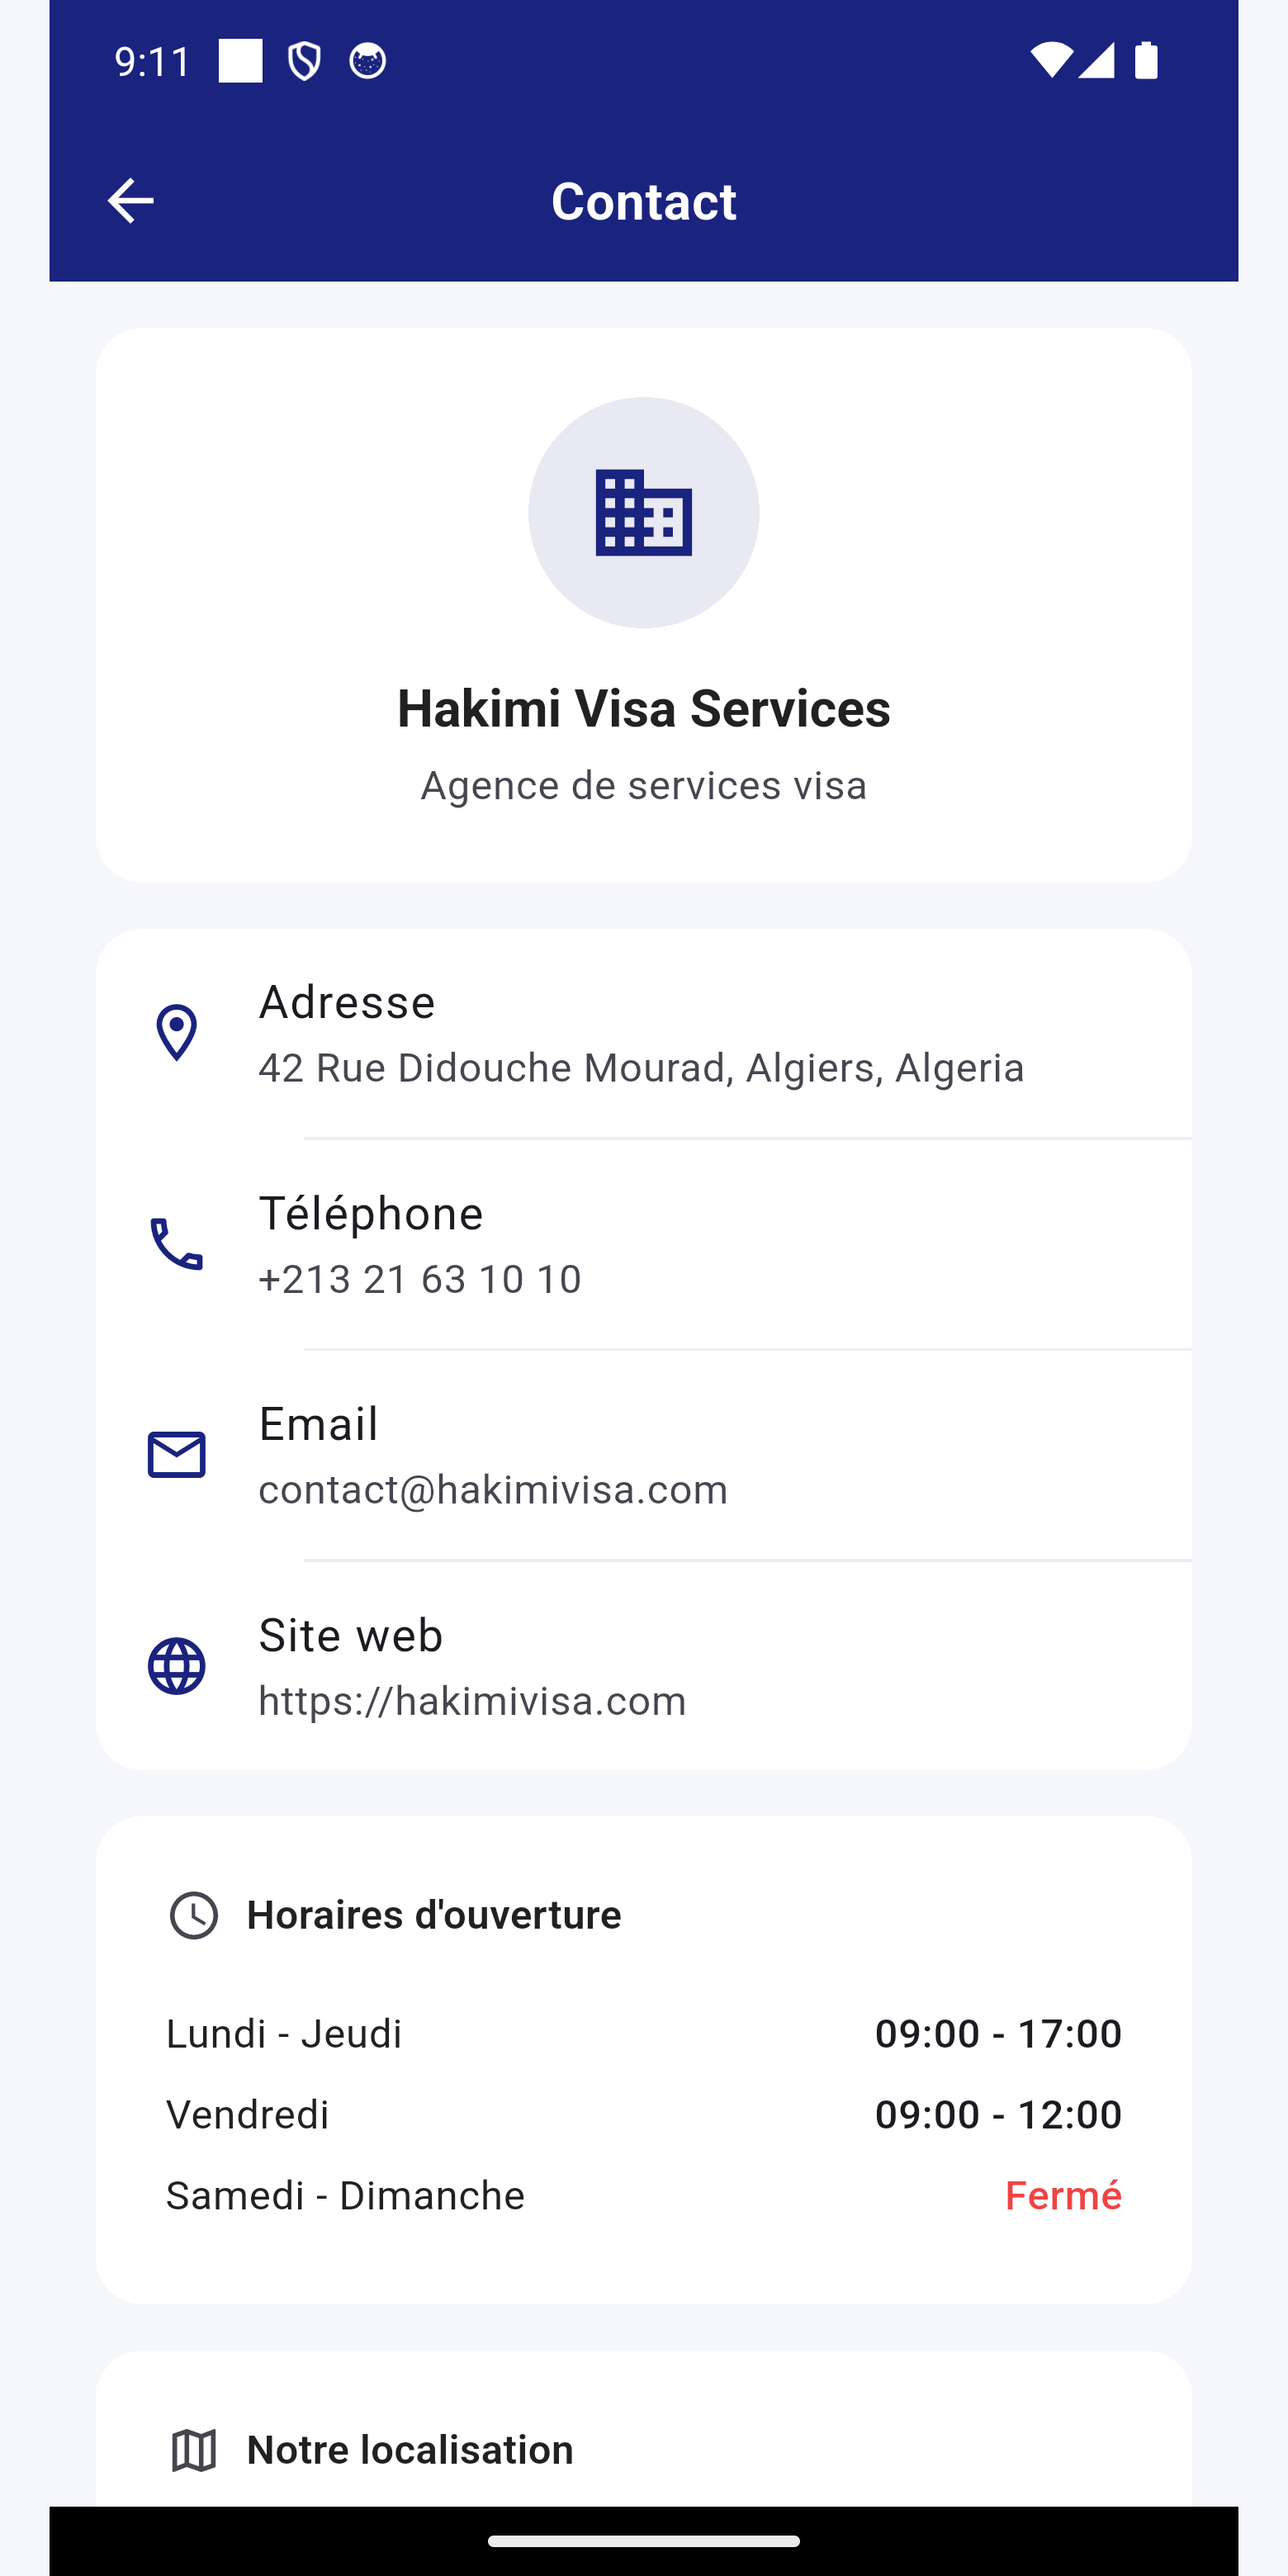
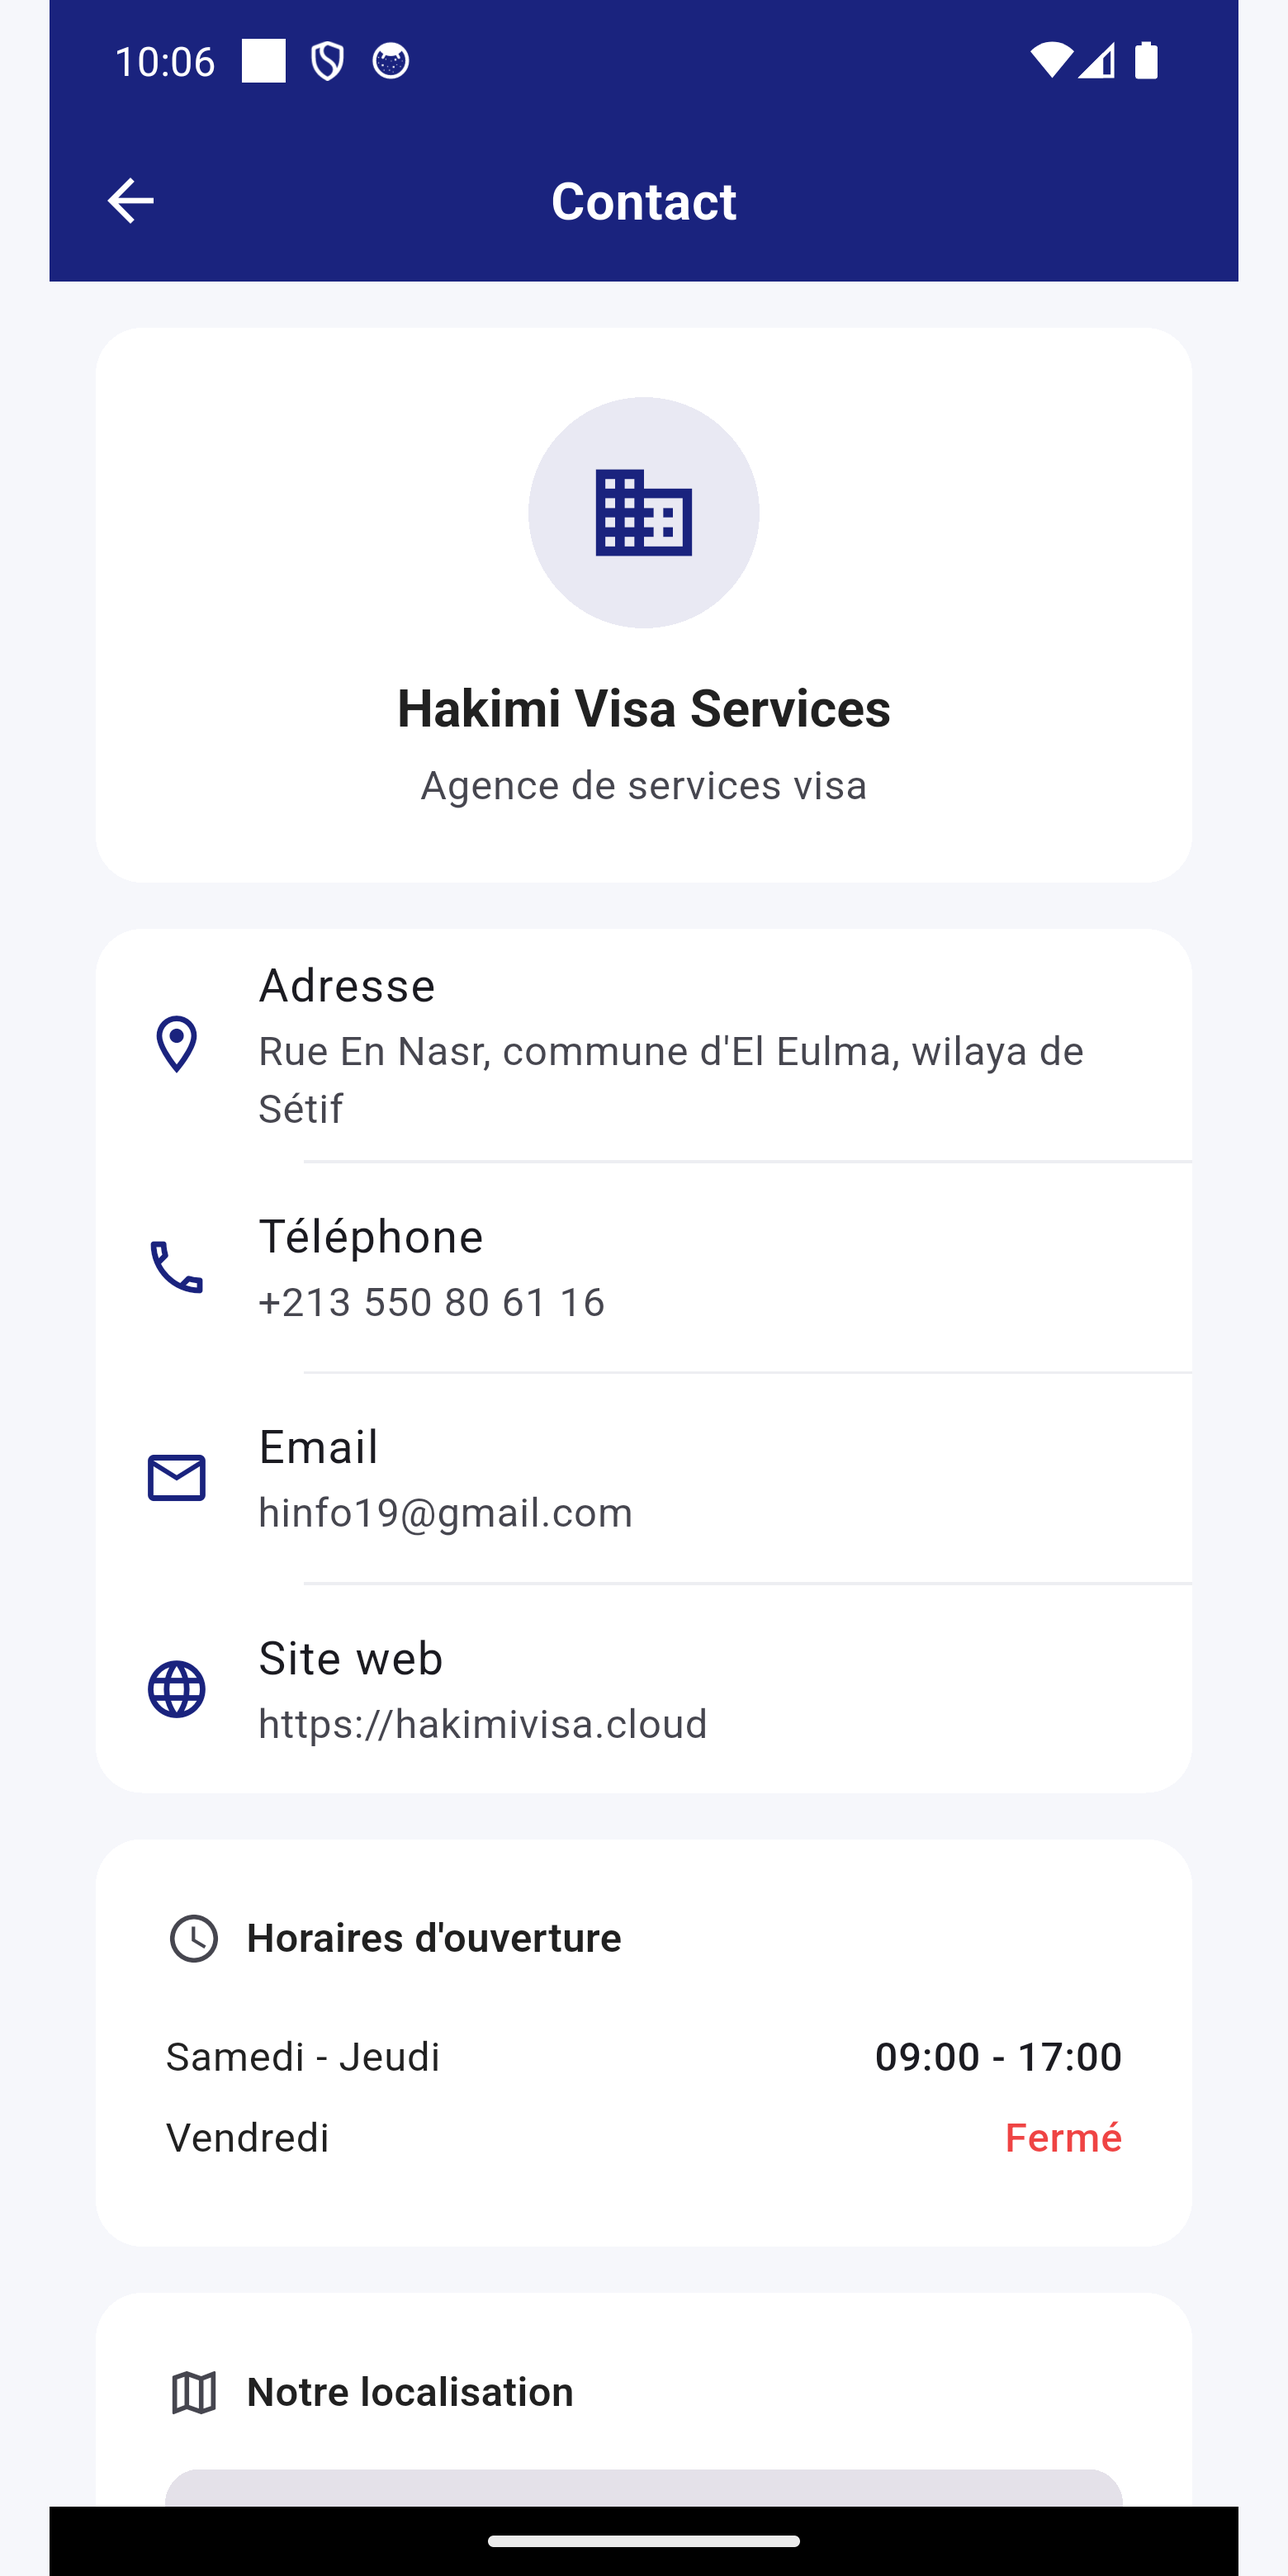
fix(client app): show the agency's real opening week
The contact screen listed Monday–Thursday, a short Friday and a Saturday–
Sunday closure. That is a European week: it told clients the agency was shut
on Sunday, which is a working day here, and open on Friday morning, which is
not. The agency opens every day except Friday.

The hours were written into the screen rather than read from agency settings,
so unlike the address and phone they could not be corrected without a new
build. Left as they are for now, but worth moving into settings so a change
of hours does not mean shipping a release.

diff --git a/hakimi_flutter/client_app/lib/src/screens/contact/contact_screen.dart b/hakimi_flutter/client_app/lib/src/screens/contact/contact_screen.dart
@@ -136,9 +136,11 @@ class ContactScreen extends ConsumerWidget {
                     ],
                   ),
                   const SizedBox(height: AppSpacing.md),
-                  _HoursRow(day: 'Lundi - Jeudi', hours: '09:00 - 17:00'),
-                  _HoursRow(day: 'Vendredi', hours: '09:00 - 12:00'),
-                  _HoursRow(day: 'Samedi - Dimanche', hours: 'Fermé'),
+                  // The agency opens every day but Friday. The previous rows
+                  // described a European week: they closed on Sunday, which is
+                  // a working day here, and opened on Friday, which is not.
+                  _HoursRow(day: 'Samedi - Jeudi', hours: '09:00 - 17:00'),
+                  _HoursRow(day: 'Vendredi', hours: 'Fermé'),
                 ],
               ),
             ),
